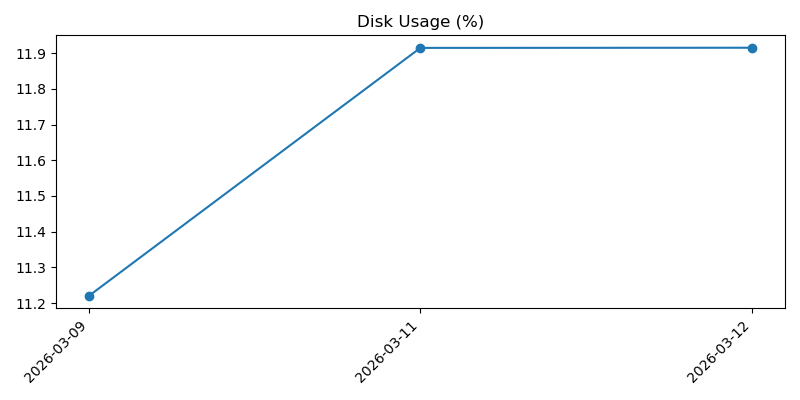
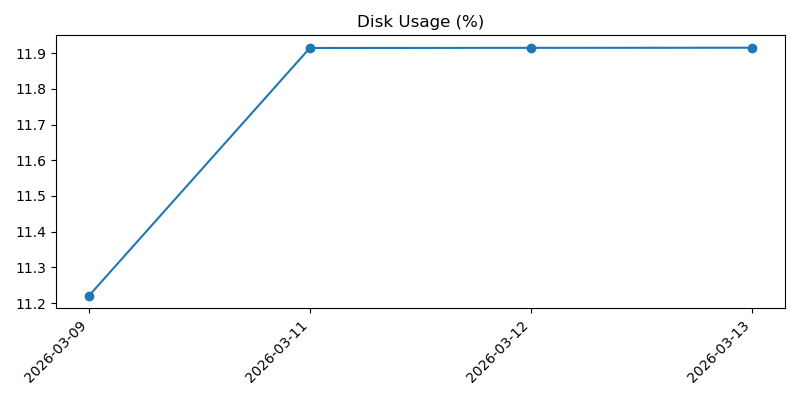
Add daily system and weather report

diff --git a/2026-03.md b/2026-03.md
@@ -101,3 +101,37 @@
 - Overall: Good
 - Warning: None
 
+## 2026-03-13 09:29:52
+
+### Machine
+- Uptime: up 3 days, 15 hours, 50 minutes
+- CPU load (1m, 5m, 15m): 0.15, 0.07, 0.01
+- RAM used: 175 MB / 921 MB (19.0%)
+- Disk used (/): 3.4 GB / 28.8 GB (11.9%)
+- Free disk space (/): 24.1 GB
+- CPU temp: 36.5°C
+- Voltage / throttling: OK
+
+### Reachability
+- Internet check (1.1.1.1): Reachable (4.0 ms)
+
+### Weather
+- Madrid:
+  - Condition: Poco nuboso
+  - Max temp: 18°C
+  - Min temp: 5°C
+  - Feels like: 11°C
+  - Chance of rain: 0%
+  - Warnings: None reported
+- Barcelona:
+  - Condition: Poco nuboso
+  - Max temp: 16°C
+  - Min temp: 12°C
+  - Feels like: 14°C
+  - Chance of rain: 0%
+  - Warnings: None reported
+
+### Health
+- Overall: Good
+- Warning: None
+
